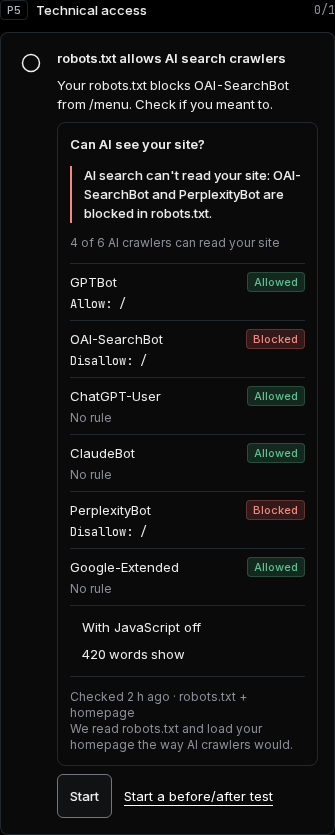
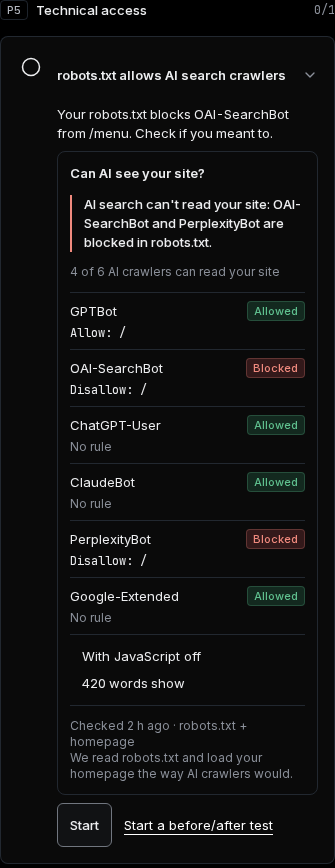
feat(fixes): G2 evidence in the open fix's collapsible body (X7)
After merging #136: the evidence renders inside the row body that X7
collapses, so a one-line row never shows it. Shots re-captured.

diff --git a/src/components/fixes/FixList.tsx b/src/components/fixes/FixList.tsx
@@ -17,7 +17,7 @@ export type FixView = Pick<FixItem, "id" | "rule_key" | "title" | "detail" | "af
   changed_by?: Actor | null;
   // G5 (#102): the fix's pillar. Real fixes always have one; older fixtures don't (plain sections then).
   pillar?: Pillar;
-  // G2: the evidence the page attaches (the AI access panel on R14, R16 and R18), shown on open rows.
+  // G2: the evidence the page attaches (the AI access panel on R14, R16 and R18), in the open fix's collapsible body (X7).
   evidence?: ReactNode;
 };
 // listDoneFixes (#101), newest change first.

diff --git a/docs/progress/2026-11-06-gas-ai-access-ui.md b/docs/progress/2026-11-06-gas-ai-access-ui.md
@@ -11,6 +11,6 @@
 - The panel (AiAccessPanel): the answer first, "{n} of 6 AI crawlers can read your site", the crawler table (Allowed/Blocked and the deciding robots.txt line, or "No rule"), the JavaScript-off word count, and "Checked {age} ago". Blocked R14 bots are the error tone, and other blocked crawlers are info. Unreachable is one line with no table.
 - Where it shows:
   - /audit: below the leaderboard (U6). loadFreeAudit reads getAiAccessCheck with the service client, only with the flag on.
-  - What to fix next: the panel is the `evidence` on R14/R16/R18 open rows (FixView.evidence, a new slot). There the crawlers stack as a list, because the table doesn't fit a phone-width fix row.
+  - What to fix next: the panel is the `evidence` on R14/R16/R18 open rows (FixView.evidence, a new slot). With X7 (#136) it sits inside the open fix's collapsible body, never on a one-line row. There the crawlers stack as a list, because the table doesn't fit a phone-width fix row.
   - /app dashboard: one quiet "AI can read your site · checked {age} ago" line under the hero, only when the outcome is good (Dashboard `reassure` slot). Problems are P5 fixes, which the next-fix card already leads with.
 - Not done: the /client fix list gets no evidence yet, and the paid run page (/app/runs) shows no panel. The lead scoped G2 to /audit and What to fix next.
